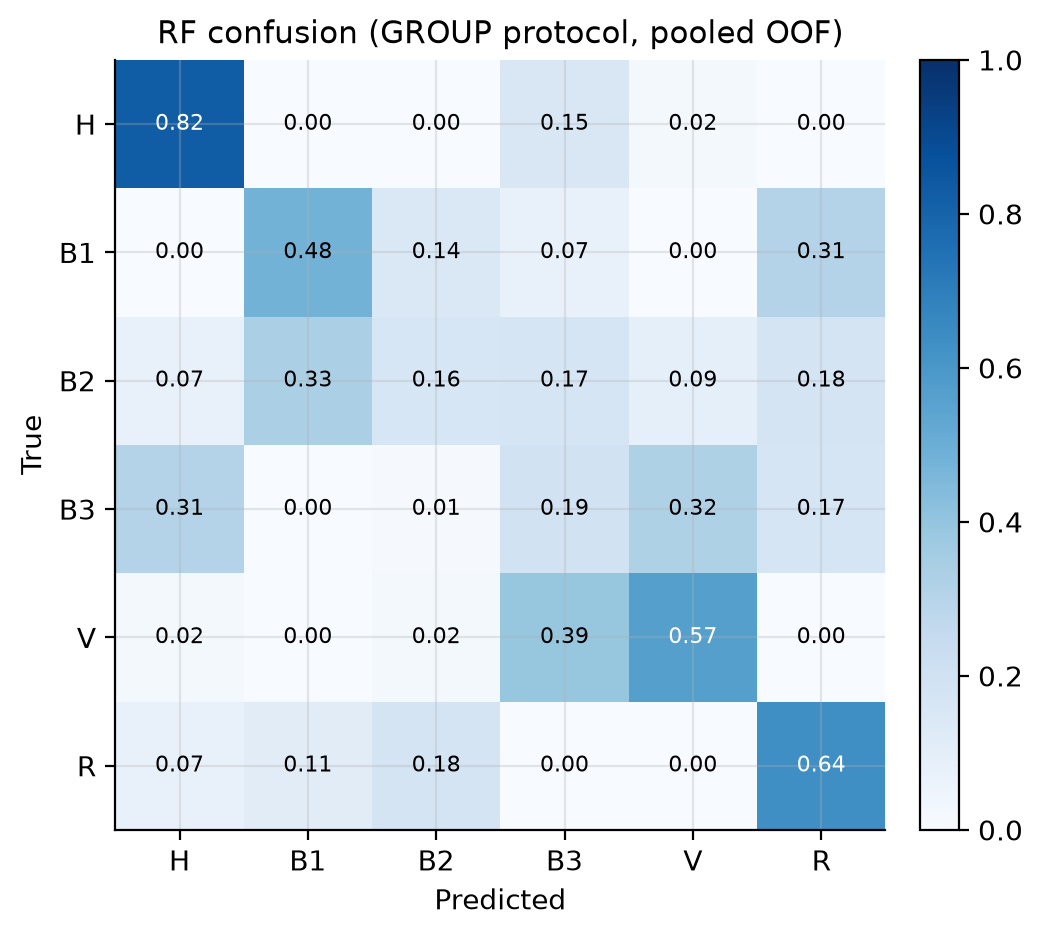
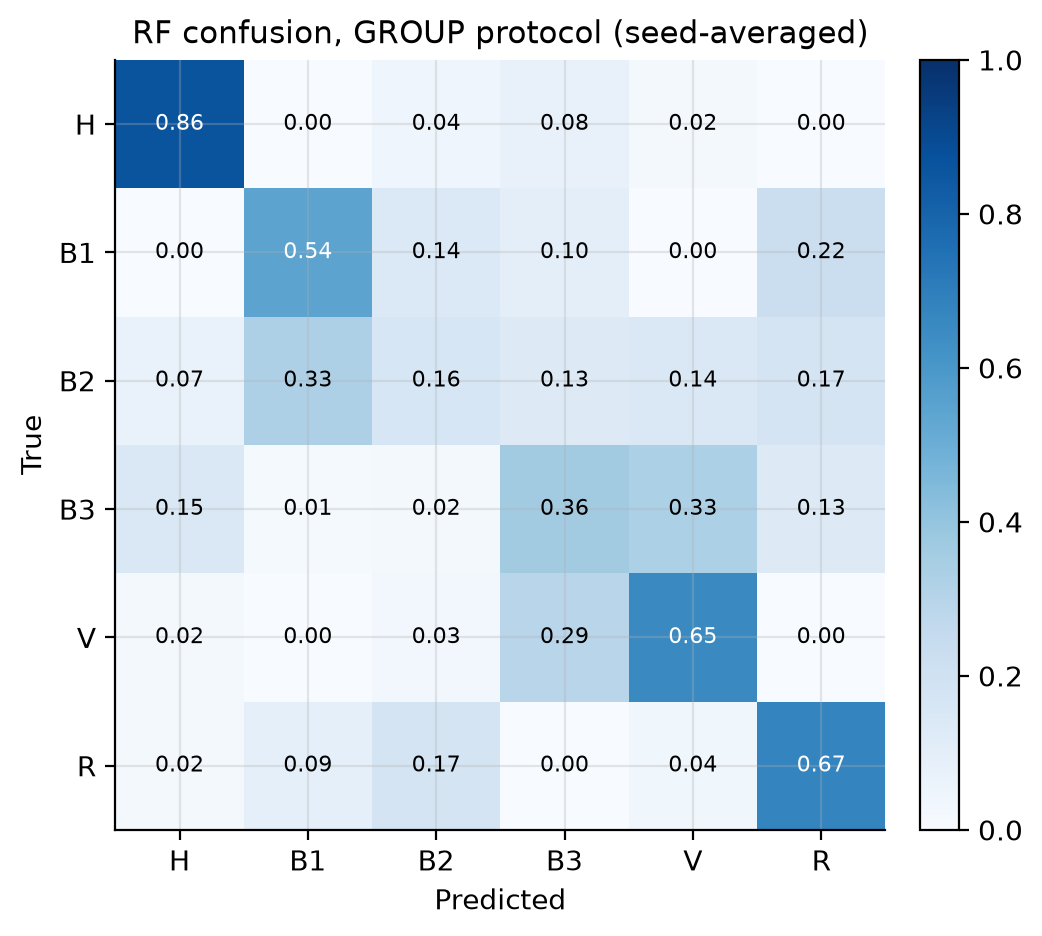
Reconcile VI-A optimism table to 5-seed values
- Multi-seed Analysis C: GROUP RF 54.3±12.3 (now consistent with the 53.7%
  baseline in the VI-B trade-off tables), KNN 61.1, SVM 57.6; optimism gap
  ~39-46 points. Update table, caption (five seeds), and gap wording.
- Regenerate seed-averaged optimism-gap and confusion figures.

Claude-Session: https://claude.ai/code/session_019cr8iVBWmoerxeHZVcgDhN

diff --git a/paper/results.tex b/paper/results.tex
@@ -20,7 +20,8 @@ visualises the same result. Under the RANDOM protocol every model attains
 essentially perfect accuracy, reproducing---and slightly exceeding---the $98\%$
 reported by the source data article's random-split baseline. Under the
 leakage-free GROUP protocol the accuracy of the same features and models falls to
-roughly one-half, an \emph{optimism gap} of the order of $40$ accuracy points.
+roughly one-half, an \emph{optimism gap} of approximately $40$ to $45$ accuracy
+points.
 The CROSS-SPEED and CROSS-LOAD protocols, which additionally impose an
 operating-condition shift, yield comparably reduced accuracy. The mechanism is
 the expected one: because overlapping windows share half of their samples and
@@ -78,7 +79,7 @@ transform.
 \begin{table}[t]
 \centering
 \caption{Accuracy (\%) by evaluation protocol and model
-(mean $\pm$ std.\ over cross-validation folds; $100$~Hz, six channels, $2$~s).}
+(mean $\pm$ std.\ over five seeds and folds; $100$~Hz, six channels, $2$~s).}
 \label{tab:optimism}
 \renewcommand{\arraystretch}{1.2}
 \begin{tabular}{@{}lccc@{}}
@@ -86,9 +87,9 @@ transform.
 \textbf{Protocol} & \textbf{RF} & \textbf{KNN} & \textbf{SVM} \\
 \midrule
 RANDOM (leaky)            & $100.0$ & $100.0$ & $100.0$ \\
-GROUP (recording-holdout) & $47.6\pm7.9$ & $63.3\pm11.8$ & $53.2\pm12.2$ \\
-CROSS-SPEED               & $49.4\pm11.2$ & $48.2\pm9.1$ & $49.7\pm12.9$ \\
-CROSS-LOAD                & $50.1\pm4.8$ & $40.3\pm0.9$ & $40.1\pm2.0$ \\
+GROUP (recording-holdout) & $54.3\pm12.3$ & $61.1\pm11.7$ & $57.6\pm14.1$ \\
+CROSS-SPEED               & $50.0\pm11.3$ & $48.2\pm9.1$ & $50.1\pm12.6$ \\
+CROSS-LOAD                & $49.3\pm5.3$ & $40.3\pm0.9$ & $40.1\pm1.9$ \\
 \bottomrule
 \end{tabular}
 \end{table}

diff --git a/results/analysis_C_multiseed.md b/results/analysis_C_multiseed.md
@@ -1,0 +1,27 @@
+# Analysis C (multi-seed) — optimism gap
+
+Seeds [0, 1, 2, 3, 4]; means pooled over seeds x folds. 100 Hz, 6 ch, 2 s, full features.
+
+## Accuracy (%)
+
+| Protocol | RF | KNN | SVM |
+|---|---|---|---|
+| RANDOM | 100.0 ± 0.0 | 100.0 ± 0.0 | 100.0 ± 0.0 |
+| GROUP | 54.3 ± 12.3 | 61.1 ± 11.7 | 57.6 ± 14.1 |
+| CROSS-SPEED | 50.0 ± 11.3 | 48.2 ± 9.1 | 50.1 ± 12.6 |
+| CROSS-LOAD | 49.3 ± 5.3 | 40.3 ± 0.9 | 40.1 ± 1.9 |
+
+## Macro-F1 (%)
+
+| Protocol | RF | KNN | SVM |
+|---|---|---|---|
+| RANDOM | 100.0 | 100.0 | 100.0 |
+| GROUP | 48.1 | 55.8 | 51.6 |
+| CROSS-SPEED | 41.6 | 41.9 | 44.3 |
+| CROSS-LOAD | 44.4 | 40.1 | 40.4 |
+
+## Optimism gap (RANDOM − GROUP), accuracy points
+
+- RF: 100.0 → 54.3  (**+45.7**)
+- KNN: 100.0 → 61.1  (**+38.9**)
+- SVM: 100.0 → 57.6  (**+42.4**)
